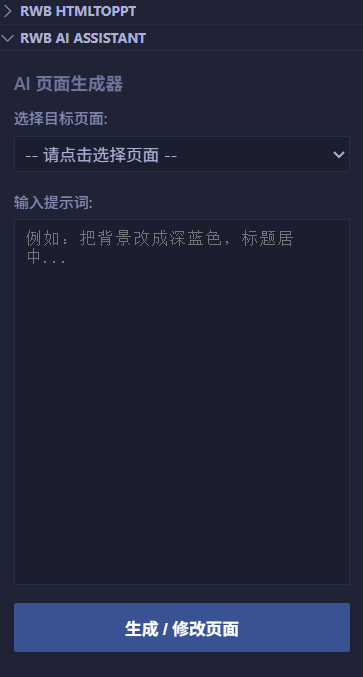
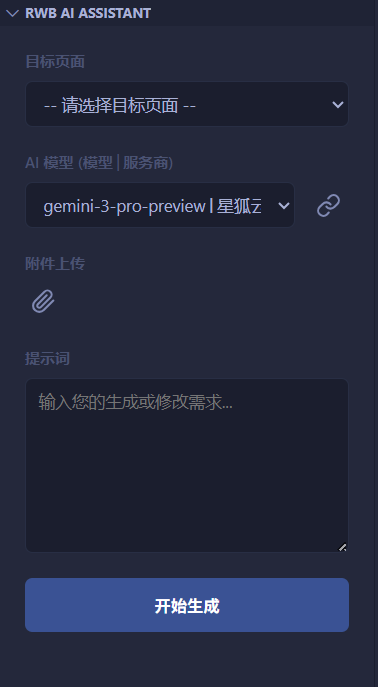
更新README

diff --git a/README.md b/README.md
@@ -1,116 +1,127 @@
 # RWB HTMLtoPPT
 
-**RWB HTMLtoPPT** 是一个强大的 VS Code 扩展，旨在帮助用户利用 HTML/CSS 技术快速构建演示文稿（PPT）。它不仅集成了项目脚手架、可视化的页面管理、AI 代码生成辅助，还包含了一键导出 U 盘便携版的功能。
+**RWB HTMLtoPPT** 是一款功能强大的 VS Code 扩展，专为将 HTML/CSS 技术转化为精美演示文稿（PPT）而设计。
 
-生成的项目基于轻量级 Web 演示框架，支持动画、全屏、鼠标滚轮控制和进度管理，让你可以像写网页一样写 PPT。
+它不仅是一个项目脚手架，更是一个集成了 **AI 全自动生成**、**可视化页面管理**、**智能代码辅助** 以及 **多格式导出** 的完整生产力工具。生成的项目基于轻量级 Web 演示框架，支持酷炫的 CSS 动画、全屏演示和便携式部署。
 
 ![插件预览图](static/image/预览.gif)
-<!-- 请在此处放置一张插件的整体预览图或 GIF -->
+<!-- 插件整体功能演示 -->
 
 ---
 
-# 🛠 第一部分：VS Code 插件指南
+# 🛠 第一部分：VS Code 插件功能指南
 
-## ✨ 主要功能 (Extension Features)
+## ✨ 核心功能 (Core Features)
 
-### 1. 快速创建项目 (Project Initialization)
-通过侧边栏的 **RWB Actions** 面板，你可以快速创建一个基于标准模板的 HTML PPT 项目。插件会自动处理 Git 模板拉取和本地环境初始化。
+### 1. 🚀 快速创建项目 (Project Initialization)
+通过侧边栏的 **RWB Actions** 面板，您可以一键初始化标准的 HTML PPT 项目。
+*   **智能模板缓存**：插件会自动拉取最新的 Git 模板并缓存到本地，确保您总是使用最新的框架版本。
+*   **环境自动配置**：自动处理目录结构，开箱即用。
 
 ![RWB Actions 面板截图](static/image/RWB面板.png)
 
-### 2. 可视化页面管理 (Page Management)
-在 **RWB HTMLtoPPT** 资源管理器视图中，你可以像操作 PPT 幻灯片一样管理 HTML 页面：
-* **添加页面**：点击标题栏的 `+` 号自动生成新页面。
-* **调整顺序**：通过上移/下移按钮调整页面播放顺序（自动重命名文件并更新配置）。
-* **删除页面**：一键删除页面并自动维护文件名连续性。
+### 2. 🤖 AI 全自动生成 PPT (AI PPT Generator) <span style="color:red;font-size:0.8em">NEW!</span>
+无需手动编写，让 AI 为您从零构建整套演示文稿！
+*   **大纲先行**：输入主题（如“2024年终总结”），AI 会先规划详细的 PPT 大纲（封面、目录、内容页等）。
+*   **批量并发生成**：确认大纲后，系统会自动创建文件，并并发请求 AI 生成每一页的 HTML/CSS 代码。
+*   **可视化进度**：提供清晰的步骤条，实时显示大纲生成及每一页的构建状态（Loading/Done/Error）。
+*   **参考素材投喂**：支持上传本地文件（文档/图片）作为 AI 生成内容的参考资料。
+
+![AI PPT 生成器截图](static/image/AI生成器.png)
+<!-- 请在此处截图：AIPPTGenerator 的 Webview 界面，显示进度条或输入框 -->
+
+### 3. 📄 可视化页面管理 (Page Management)
+在 **RWB HTMLtoPPT** 资源管理器视图中，像操作 PowerPoint 幻灯片缩略图一样管理 HTML 文件：
+*   **➕ 插入页面**（新功能）：点击页面卡片上的插入按钮，支持在当前页之后插入新页，插件会**自动重命名后续所有文件**（如在 page2 后插入，原 page3 自动变为 page4...），保持顺序连贯。
+*   **🔃 重置模板**：页面写乱了？一键将当前页重置为默认的初始布局。
+*   **排序与删除**：支持上移、下移和删除页面，所有文件名索引自动维护，无需手动改名。
 
 ![页面管理视图截图](static/image/管理页面.png)
+<!-- 截图建议：展示带有插入和重置按钮的新版页面列表 -->
 
-### 3. AI 智能辅助 (AI Assistant)
-内置 **RWB AI Assistant**，让非前端专业人士也能轻松修改样式。
-* **自然语言指令**：输入 "把背景改成深蓝色" 或 "标题居中"，AI 自动修改代码。
-* **上下文感知**：自动读取当前选中的 HTML 文件内容进行修改。
-* **配置灵活**：支持自定义 API Endpoint 和模型。
+### 4. 🧠 智能 AI 代码助手 (AI Assistant)
+针对单页内容的精细化修改，内置了强大的上下文感知 AI。
+*   **多模态支持**：支持上传图片（参考设计图）或文档，让 AI 根据素材编写代码。
+*   **多任务处理**：
+    *   **后台运行**：点击“后台进行”，你可以继续在 VS Code 中写代码，AI 会在后台默默完成任务。
+    *   **任务列表**：底部实时显示任务队列状态。
+*   **精准控制**：支持随时“停止生成”。
 
 ![AI 助手截图](static/image/AI助手.png)
 
-### 4. 便携式 U 盘导出 (Portable Export)
-一键将项目打包导出到 U 盘或移动硬盘，生成独立运行环境，无需在演示电脑上安装 Node.js 或 VS Code。
+### 5. 💾 双模式导出 (Export Options)
 
-**💾 导出及使用步骤：**
-1. **导出**：插入 U 盘，点击 VS Code 状态栏右下角的 `$(device-mobile) 导出PPT到U盘` 按钮，选择 U 盘根目录。插件会自动解压 Nginx 服务器环境并生成启动脚本。
-2. **启动服务器**：
- * 打开 U 盘中导出的项目文件夹（包含 `nginx.exe` 的目录）。
- * 双击运行 **`nginx.exe`**。
- * *注意：此时可能会有一个黑色命令行窗口一闪而过，这是正常的，代表后台服务器已成功启动。*
-3. **开始演示**：
- * 回到 U 盘根目录（或刚刚那个文件夹的上级目录）。
- * 找到并双击自动生成的 **快捷方式**（通常命名为 `你的文件名.html` 或类似名称）。
- * 演示文稿将在默认浏览器中打开，即可开始演讲。
+#### 🅰 导出为 U 盘便携版 (Portable Web)
+一键打包项目到 U 盘，生成无需安装环境的独立运行包。
+*   **自动部署 Nginx**：插件会自动解压内置的 Nginx 服务器到 U 盘。
+*   **一键启动/关闭**：
+    *   生成 `启动RWB-PPT环境.bat`：双击即可开启本地服务器演示。
+    *   生成 `关闭RWB-PPT.bat`（新功能）：演示结束后，双击此脚本可彻底关闭 Nginx 和浏览器进程，安全拔出 U 盘。
 
-![导出功能截图1](static/image/导出功能.png)
-![导出功能截图2](static/image/导出功能2.png)
+![导出U盘功能截图](static/image/导出功能.png)
+
+#### 🅱 导出为 PPTX 文件 (Export to PPT) <span style="color:red;font-size:0.8em">NEW!</span>
+需要发送给客户？支持将 HTML 页面渲染并导出为标准的 `.pptx` 文件。
+*   **原理**：利用高清渲染技术将每一页 HTML 转换为幻灯片图片。
+*   **智能资源处理**：自动处理本地图片资源，解决跨域问题，确保导出的 PPT 内容完整。
+*   点击状态栏右下角的 `$(file-media) 导出为PPT` 按钮即可使用。
+
+![导出PPT文件截图](static/image/导出PPT文件.png)
+<!-- 请在此处截图：导出 PPT 过程中的 Webview 渲染界面或状态栏按钮 -->
+
 ---
 
 ## ⚙ 扩展设置 (Extension Settings)
 
-本插件提供了详细的 AI 配置选项，请在 VS Code 设置中搜索 `rwb` 进行配置：
+本插件支持高度自定义的 AI 模型配置，请在 VS Code 设置中搜索 `rwb`：
 
-| 设置项 (ID) | 类型 | 默认值 | 说明 |
-| :--- | :--- | :--- | :--- |
-| `rwb.enableAI` | boolean | `false` | 是否开启 AI 辅助功能视图 (需要重启 VS Code 生效) |
-| `rwb.AI-API_URL` | string | `https://www.dmxapi.cn/v1/chat/completions` | AI 服务的 API 接口地址 (OpenAI 兼容格式) |
-| `rwb.AI-API_KEY` | string | `""` | AI 服务的 API Key |
-| `rwb.AI-model` | string | `gemini-3-pro-preview` | 使用的模型名称 |
-| `rwb.enableAILog` | boolean | `false` | 是否在项目 `logs/ai_history.log` 中记录 AI 对话日志 |
+| 设置项 (ID) | 类型 | 说明 |
+| :--- | :--- | :--- |
+| `rwb.aiProviders` | Array | **AI 服务商配置核心**。支持配置多个服务商（OpenAI/DeepSeek/Gemini等），每个服务商下可配置多个 API Key 和模型名称。插件界面提供下拉菜单灵活切换。 |
+| `rwb.pptBatchSize` | Number | **批量生成并发数**。默认为 3。AI 生成整套 PPT 时，每次并发生成的页数。数值越大速度越快，但可能触发 API 速率限制。 |
+| `rwb.AI-temperature` | Number | **创造力 (0-2)**。值越高 AI 越有创意，值越低生成的代码越稳定。 |
+| `rwb.enableAILog` | Boolean | 是否在 `logs/ai_history.log` 中记录详细的 AI 对话日志。 |
 
-## 🚀 插件快速开始 (Quick Start)
+![AI 多模型配置截图](static/image/AI多模型配置.png)
+<!-- 请在此处截图：VS Code 设置页面中 rwb.aiProviders 的配置界面 -->
 
-1. **安装插件**：在 VS Code 插件市场搜索安装。
-2. **创建项目**：
- * 点击侧边栏 RWB 图标。
- * 在 "RWB Actions" 中输入项目名，选择路径，点击创建。
-3. **编辑页面**：
- * 在 "RWB HTMLtoPPT" 面板中点击 `+` 添加新页面。
- * **预览**：右键点击 `index.html` 选择 "Open with Live Server" (插件会自动提示安装)。
-4. **使用 AI (可选)**：
- * 在设置中开启 `rwb.enableAI` 并填入 API Key。
- * 在 "RWB AI Assistant" 面板选择页面，输入修改指令。
+---
 
-## 📦 依赖与已知问题
+# 🚀 快速开始 (Quick Start)
 
-* **依赖**：本插件推荐安装 [Live Server](https://marketplace.visualstudio.com/items?itemName=ritwickdey.LiveServer) 以实现实时预览。
-* **已知问题**：
- * 导出功能目前仅支持 Windows 环境（依赖 `nginx.exe` 和 `.bat` 脚本）。
- * AI 功能依赖网络连接，请确保 API 地址可访问。
+1.  **安装插件**：在 VS Code 插件市场搜索 `RWB HTMLtoPPT` 并安装。
+2.  **配置 AI**：在设置中配置您的 API Key 和模型地址（支持 OpenAI 格式接口）。
+3.  **创建项目**：
+    *   点击侧边栏 RWB 图标 -> "RWB Actions" -> 输入项目名并创建。
+4.  **生成内容**：
+    *   **方式 A (全自动)**：打开 "RWB AI PPT Generator" 面板，输入主题（如“公司季度财报”），点击生成，等待 AI 完成所有页面。
+    *   **方式 B (手动/半自动)**：在 "RWB HTMLtoPPT" 面板添加页面，使用 "AI Assistant" 对单页进行修饰（如“把背景改成科技感深蓝色”）。
+5.  **预览与演示**：
+    *   右键 `index.html` 选择 "Open with Live Server" 进行实时预览。
+    *   按 `F11` 全屏即可开始演讲。
 
 ---
 
 # 📖 第二部分：生成的 PPT 项目开发指南
 
-当你使用本插件创建一个新项目后，你将得到一个完整的 Web PPT 演示系统。以下是如何编写和配置具体内容的指南。
-
 ## 📁 项目目录结构
 
 ```text
 PPT/
-├── index.html          # [核心] PPT 入口文件（无需修改，请勿直接双击打开）
-├── setting.json        # [核心] 全局配置文件（页面列表、比例、标题）
-├── config.json         # [扩展] API 及后端配置（预留）
-├── PAGES/              # [内容] 存放每一页的 HTML 内容文件
+├── index.html          # [入口] 核心控制文件（包含页面加载器）
+├── setting.json        # [配置] 全局配置（定义页面顺序、比例、标题）
+├── ppt_outline.json    # [数据] AI 自动生成的大纲数据备份
+├── PAGES/              # [内容] 存放每一页的 HTML 文件
 │   ├── page1.html
+│   ├── page2.html
 │   └── ...
 ├── CSS/                # [样式]
-│   └── style.css       # 核心样式表
-├── JavaScript/         # [脚本]
-│   └── main.js         # 核心逻辑脚本
-├── static/             # [资源] 存放静态文件
-│   ├── image/          # 图片
-│   ├── video/          # 视频
-│   └── icon/           # 图标
+│   └── style.css       # 全局样式表
+├── static/             # [资源]
+│   ├── image/          # 图片资源
+│   └── ...
 └── ...
 ```
-
 ## ⚠ 运行注意事项 (必读)
 
 由于浏览器安全策略（CORS 跨域限制），**不能直接双击 `index.html` 打开**，否则会导致无法读取 JSON 配置和 HTML 页面文件。
@@ -121,8 +132,6 @@ PPT/
 3. 浏览器将自动弹出并显示 PPT。
 
 ![golive功能截图](static/image/golive.png)
-
-*(备选方案：使用 Python `python -m http.server` 或 Node.js `http-server` 启动本地服务)*
 
 ## 📝 制作指南
 
